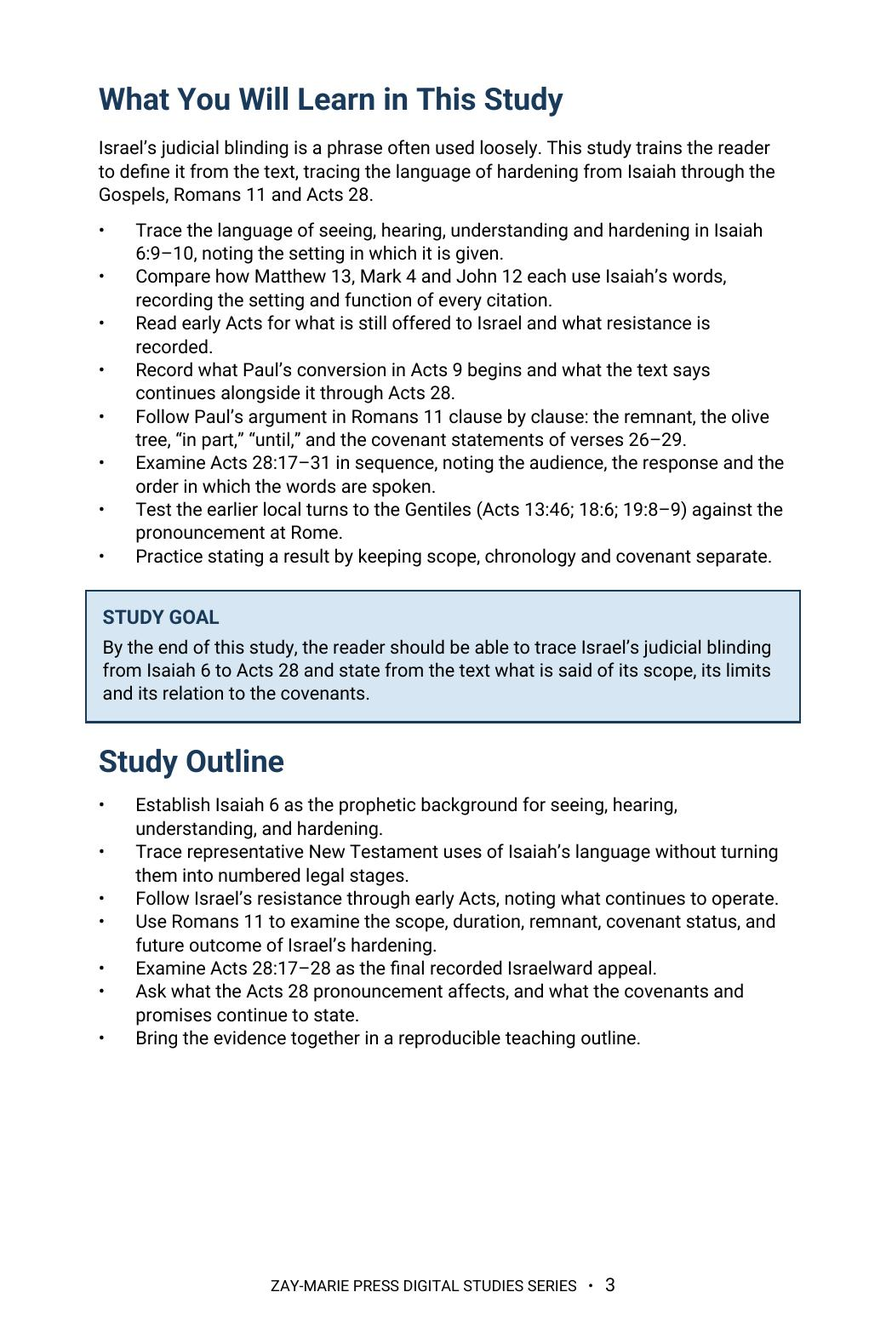
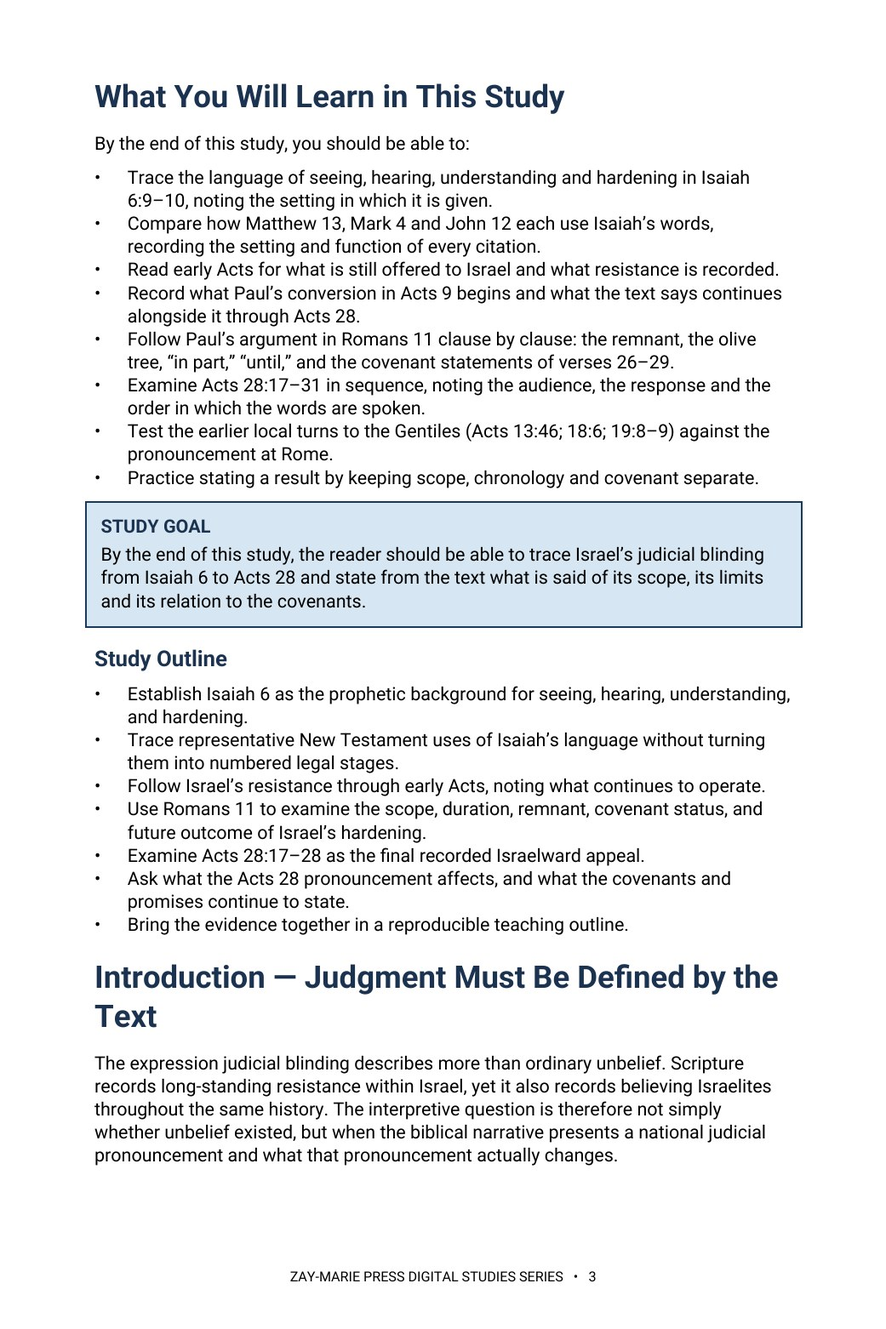
Study 21: rebuilt in Roboto 10 pt on current page (16 pages); previews 2, 3, 4 re-rendered; site.js 21:16; trackers v1.106/v1.200
Claude-Session: https://claude.ai/code/session_01HC7bs9KYP2scp4hCL6DkTp

Changed region(s): [[0.0922, 0.0615, 0.9222, 0.8912], [0.3074, 0.9526, 0.6455, 0.9834]]

diff --git a/study-21-israels-judicial-blinding.html b/study-21-israels-judicial-blinding.html
@@ -14,7 +14,7 @@
   <body class="study-detail-page">
     <header class="site-header"><div class="wrap nav"><a class="logo" href="index.html" aria-label="Zay-Marie Press home"><img src="assets/zay-marie-press-logo-hq.png" alt="Zay-Marie Press" width="420" height="238" /></a><button class="menu-toggle" type="button" aria-expanded="false" aria-controls="primary-nav">MENU</button><nav aria-label="Primary navigation" class="primary-nav" id="primary-nav"><a href="index.html">HOME</a><a href="books.html">BOOKS</a><a href="series.html">SERIES</a><a class="active" aria-current="page" href="digital-studies.html">DIGITAL STUDIES</a><a href="biblical-hermeneutics-course.html">COURSE</a><a href="about.html">ABOUT</a><a href="resources.html">RESOURCES</a><a href="contact.html">CONTACT</a></nav></div></header>
     <main>
-      <section class="detail-hero"><div class="wrap detail-hero-grid"><div class="detail-cover"><picture><source srcset="assets/study-21-cover.webp" type="image/webp"><img src="assets/study-21-cover.jpg" alt="Israel’s Judicial Blinding - Study 21 cover" /></picture></div><div><div class="eyebrow">STUDY 21 · DIGITAL STUDY</div><h1>Israel’s Judicial Blinding</h1><p class="detail-subtitle">Hardening, Purpose, and the Hope of Restoration</p><p class="detail-kicker">A Clearer Understanding of Romans 11 and the Acts 28 Boundary</p><p class="detail-copy">Israel’s judicial blinding must be understood within the full Acts narrative. Isaiah’s hardening language appears before Acts 28, yet Israel’s active national Prophecy administration continues during the Acts Overlap while the Mystery administration also operates distinctly through Paul.</p><p class="detail-copy">This study follows the biblical evidence to Acts 28, where the final recorded Israelward appeal reaches its judicial boundary. It explains what is suspended, what remains true, and why Romans 11 preserves Israel’s future restoration.</p><div class="detail-buyline"><span class="detail-price">$5.99</span><span class="detail-format">Digital PDF · 17 Pages</span><span class="detail-button pending" aria-disabled="true">Checkout Coming Soon</span></div></div></div></section>
+      <section class="detail-hero"><div class="wrap detail-hero-grid"><div class="detail-cover"><picture><source srcset="assets/study-21-cover.webp" type="image/webp"><img src="assets/study-21-cover.jpg" alt="Israel’s Judicial Blinding - Study 21 cover" /></picture></div><div><div class="eyebrow">STUDY 21 · DIGITAL STUDY</div><h1>Israel’s Judicial Blinding</h1><p class="detail-subtitle">Hardening, Purpose, and the Hope of Restoration</p><p class="detail-kicker">A Clearer Understanding of Romans 11 and the Acts 28 Boundary</p><p class="detail-copy">Israel’s judicial blinding must be understood within the full Acts narrative. Isaiah’s hardening language appears before Acts 28, yet Israel’s active national Prophecy administration continues during the Acts Overlap while the Mystery administration also operates distinctly through Paul.</p><p class="detail-copy">This study follows the biblical evidence to Acts 28, where the final recorded Israelward appeal reaches its judicial boundary. It explains what is suspended, what remains true, and why Romans 11 preserves Israel’s future restoration.</p><div class="detail-buyline"><span class="detail-price">$5.99</span><span class="detail-format">Digital PDF · 16 Pages</span><span class="detail-button pending" aria-disabled="true">Checkout Coming Soon</span></div></div></div></section>
       <section class="detail-section"><div class="wrap"><div class="eyebrow">ABOUT THIS STUDY</div><h2>What Does Judicial Blinding Mean?</h2><p class="lead">Judicial blinding is a real national judgment, but it is neither individually exhaustive nor covenant-canceling. Believing Israelites remain, Israel’s promises remain valid, and Romans 11 looks ahead to future restoration.</p><p class="lead">This study distinguishes recurring prophetic hardening language from the climactic administrative boundary at Acts 28. It preserves the concurrent operation of Prophecy and Mystery during Acts 9–28 while identifying the judicial suspension of Israel’s active national Prophecy administration at Acts 28.</p><p class="lead">This is not a study of the believing remnant’s own continued existence within Israel, which Study 9 follows in its own right, nor of Romans 11’s olive-tree image of branches broken off and grafted in, which Study 13 reads on its own terms. Its task is narrower: to fix the exact extent of Israel’s corporate hardening — what it covers and what it leaves untouched — and to ask whether a judicial suspension of Israel’s national administration can ever be read as canceling a covenant promise rather than merely postponing its exercise.</p><div class="study-distinction"><h3>How These Studies Relate</h3><p>Study 21 traces Israel’s corporate judicial blinding in Romans 11 and Acts 28.</p><p><a href="study-09-the-remnant.html">Study 9 — The Remnant</a> Follow the believing remnant through the same national history; its existence explains why corporate hardening does not erase every Israelite’s faith.</p><p><a href="study-13-the-olive-tree-and-the-body-of-christ.html">Study 13 — The Olive Tree and the Body of Christ</a> Read Paul’s natural branches, wild branch, and future reception in Romans 11; the olive-tree illustration makes the consequences and limits of hardening more precise.</p><p><a href="study-63-isaiah-7-13-16.html">Study 63 — Isaiah 7:13–16</a> Read the sign given to the house of David in the chapter after Isaiah 6; Study 21 traces the hardening announced just before it.</p><p class="connection-guide-link"><a href="study-connections.html#study-21">Explore the full connection guide for Study 21 →</a></p></div><div class="cross-strand-note"><p class="cross-strand-label">FROM THE PARABLES STRAND</p><p>Three parables narrate, in story form, the rejection this study explains doctrinally.</p><p><a href="parable-07-the-wicked-tenants.html">The Wicked Tenants</a> · <a href="parable-08-the-wedding-banquet.html">The Wedding Banquet</a> · <a href="parable-09-the-great-banquet.html">The Great Banquet</a></p></div></div></section>
       <section class="detail-section soft"><div class="wrap"><div class="eyebrow">WHAT YOU’LL STUDY</div><h2>Follow the Biblical Evidence to Acts 28</h2><div class="study-points">
         <div class="study-point"><h3>Isaiah 6 and Judicial Hardening</h3><p>Begin with the prophetic vocabulary of seeing, hearing, resistance, and covenant responsibility.</p></div>
@@ -38,10 +38,10 @@
       <section class="detail-section soft"><div class="wrap"><div class="eyebrow">A LOOK INSIDE</div><h2>Preview the Study Before You Purchase</h2><p class="preview-instruction">Click any page to enlarge it for reading.</p><div class="preview-grid">
         <div class="preview-card"><a class="preview-image-link" data-preview-lightbox href="assets/study-21-page-2.jpg"><img src="assets/study-21-page-2.jpg" alt="Study 21 interior preview — page 2, table of contents" /></a><div class="page-no">Page 2</div><h3>Table of Contents</h3><p>See the full structure of the study, from the introduction through the final synthesis.</p></div>
         <div class="preview-card"><a class="preview-image-link" data-preview-lightbox href="assets/study-21-page-3.jpg"><img src="assets/study-21-page-3.jpg" alt="Study 21 interior preview — page 3, What You Will Learn in This Study" /></a><div class="page-no">Page 3</div><h3>What You Will Learn in This Study</h3><p>Begin with the questions and the passages the study traces, from Isaiah to Acts 28.</p></div>
-        <div class="preview-card"><a class="preview-image-link" data-preview-lightbox href="assets/study-21-page-4.jpg"><img src="assets/study-21-page-4.jpg" alt="Study 21 interior preview — page 4, Introduction, Judgment Must Be Defined by the Text" /></a><div class="page-no">Page 4</div><h3>Introduction: Judgment Must Be Defined by the Text</h3><p>Start with the interpretive question the study asks before any passage is examined.</p></div>
+        <div class="preview-card"><a class="preview-image-link" data-preview-lightbox href="assets/study-21-page-4.jpg"><img src="assets/study-21-page-4.jpg" alt="Study 21 interior preview — page 4, Isaiah 6 and the language of hardening" /></a><div class="page-no">Page 4</div><h3>Isaiah 6 and the Language of Hardening</h3><p>Read Isaiah’s commission in its own setting before any later citation of it is examined.</p></div>
       </div></div></section>
       <section class="detail-section"><div class="wrap"><div class="eyebrow">WHAT’S INCLUDED</div><h2>A Focused Study Built for<br />Understanding and Teaching</h2><div class="includes-grid">
-        <div class="include-item"><h3>17-Page Biblical Study</h3><p>A focused study of Israel’s judicial blinding from Isaiah through Acts 28 and Romans 11.</p></div>
+        <div class="include-item"><h3>16-Page Biblical Study</h3><p>A focused study of Israel’s judicial blinding from Isaiah through Acts 28 and Romans 11.</p></div>
         <div class="include-item"><h3>Fifteen Teaching Sections</h3><p>Follow the argument from prophetic hardening language to the Acts 28 judicial boundary.</p></div>
         <div class="include-item"><h3>Romans 11 Analysis</h3><p>Trace the scope, remnant, duration, covenant status, and future outcome of Israel’s hardening.</p></div>
         <div class="include-item"><h3>Acts 28 Boundary</h3><p>Examine the final recorded Israelward appeal and Paul’s Isaiah pronouncement at Rome.</p></div>
@@ -50,7 +50,7 @@
         <div class="include-item"><h3>Scripture-Tracing Exercise</h3><p>Trace Isaiah, the Gospels, Acts, and Romans 11 in their own narrative settings.</p></div>
         <div class="include-item"><h3>Teaching and Discussion Tools</h3><p>Use review questions, a teaching outline, further study, and final synthesis for personal or group use.</p></div>
       </div></div></section>
-      <section class="detail-section cream"><div class="wrap"><div class="final-buy"><div><div class="eyebrow">STUDY 21 · DIGITAL STUDY</div><h2>Israel’s Judicial Blinding</h2><p>17-page digital PDF · For personal use</p></div><div class="final-offer"><div class="detail-price">$5.99</div><span class="detail-button pending" aria-disabled="true">Checkout Coming Soon</span></div></div><a class="back-link" href="digital-studies.html">← Back to All Digital Studies</a></div></section>
+      <section class="detail-section cream"><div class="wrap"><div class="final-buy"><div><div class="eyebrow">STUDY 21 · DIGITAL STUDY</div><h2>Israel’s Judicial Blinding</h2><p>16-page digital PDF · For personal use</p></div><div class="final-offer"><div class="detail-price">$5.99</div><span class="detail-button pending" aria-disabled="true">Checkout Coming Soon</span></div></div><a class="back-link" href="digital-studies.html">← Back to All Digital Studies</a></div></section>
     <section class="study-method-course-bridge"><div class="wrap"><div class="study-method-course-panel"><div><div class="eyebrow">BUILD THE INTERPRETIVE METHOD</div><h2>Want More Than a Focused Study?</h2><p>Digital Studies examine particular biblical subjects and difficult passages. The 40-lesson Biblical Hermeneutics course teaches a complete, repeatable method for establishing meaning in context, determining proper assignment, and making responsible application.</p></div><a class="btn btn-primary" href="biblical-hermeneutics-course.html">BIBLICAL HERMENEUTICS COURSE</a></div></div></section></main><footer class="site-footer"><div class="wrap footer-grid"><div class="footer-about"><h3>Zay-Marie Press</h3><p class="footer-tagline"><em>Where the Bible Means What It Says.</em></p><p>Zay-Marie Press is a Christian theological publisher dedicated to producing doctrinally precise, carefully structured biblical resources that equip pastors, teachers, and serious students with clarity, depth, and Scripture-anchored truth.</p><p><a href="https://zaymariepress.com">zaymariepress.com</a><br/><a href="mailto:info@zaymariepress.com">info@zaymariepress.com</a></p></div><div class="footer-column"><h3>Explore</h3><div class="footer-links-stacked"><a href="books.html">Books</a><br/><a href="series.html">Series</a><br/><a href="biblical-hermeneutics-course.html">Course</a><br/><a href="digital-studies.html">Digital Studies</a><br/><a href="resources.html">Resources</a><br/><a href="bible-book-summaries.html">Bible Book Summaries</a><br/><a href="doctrinal-packets.html">Doctrinal Packets</a><br/><a href="historical-drift.html">Historical Drift</a><br/><a href="about.html">About</a><br/><a href="contact.html">Contact</a></div></div><div class="footer-column"><h3>Reader Support</h3><div class="footer-links-stacked"><a href="reader-support.html#faq">FAQ</a><br/><a href="reader-support.html#shipping-returns">Shipping &amp; Returns</a><br/><a href="reader-support.html#digital-downloads">Digital Downloads</a><br/><a href="reader-support.html#contact-support">Contact Support</a></div></div><div class="footer-column"><h3>Acts Overlap</h3><p><strong>Acts Overlap Theology Series</strong></p><p><em>Two Distinct Streams. One Overlap.</em></p><p><a href="series.html">Series Overview</a></p></div></div><div class="wrap footer-bottom">© 2026 Zay-Marie Press. All rights reserved.</div></footer>
     <div class="preview-lightbox" id="preview-lightbox" role="dialog" aria-modal="true" aria-label="Expanded study preview"><button class="preview-lightbox-close" type="button" aria-label="Close preview">×</button><img id="preview-lightbox-image" alt="" /></div>
     <script>

diff --git a/site.js b/site.js
@@ -62,7 +62,7 @@ const resourceModal=document.querySelector('#resource-modal'), resourceModalTitl
 if(resourceModal&&resourceModalTriggers.length){const closeResourceModal=()=>{resourceModal.hidden=true;document.body.classList.remove('resource-modal-open');lastResourceTrigger?.focus();};resourceModalTriggers.forEach(trigger=>trigger.addEventListener('click',()=>{lastResourceTrigger=trigger;if(resourceModalTitle)resourceModalTitle.textContent=trigger.dataset.title||'Resource';if(resourceModalDescription)resourceModalDescription.textContent=trigger.dataset.description||'';if(resourceModalLink){resourceModalLink.href=trigger.dataset.href||'#';resourceModalLink.textContent=trigger.dataset.linkText||'OPEN RESOURCE';}resourceModal.hidden=false;document.body.classList.add('resource-modal-open');resourceModalClose?.focus();}));resourceModalClose?.addEventListener('click',closeResourceModal);resourceModal.addEventListener('click',e=>{if(e.target===resourceModal)closeResourceModal();});document.addEventListener('keydown',e=>{if(e.key==='Escape'&&!resourceModal.hidden)closeResourceModal();});}
 
 /* Display the verified final-PDF page count at the primary purchase decision point. */
-const digitalStudyPageCounts={1:17,2:19,3:16,4:17,5:15,6:15,7:14,8:13,9:15,10:20,11:15,12:15,13:18,14:15,15:15,16:16,17:17,18:18,19:16,20:15,21:17,22:16,23:14,24:16,25:17,26:16,27:16,28:16,29:19,30:17,31:18,32:19,33:18,34:16,35:16,36:16,37:16,38:16,39:16,40:16,41:16,42:17,43:17,44:19,45:19,46:20,47:19,48:18,49:20,50:19,51:20,52:19,53:19,54:17,55:20,56:20,57:20,58:19,59:20,60:15,61:16,62:18,63:17,64:17,65:16,66:16,67:17,68:16,69:17,70:17,71:16};
+const digitalStudyPageCounts={1:17,2:19,3:16,4:17,5:15,6:15,7:14,8:13,9:15,10:20,11:15,12:15,13:18,14:15,15:15,16:16,17:17,18:18,19:16,20:15,21:16,22:16,23:14,24:16,25:17,26:16,27:16,28:16,29:19,30:17,31:18,32:19,33:18,34:16,35:16,36:16,37:16,38:16,39:16,40:16,41:16,42:17,43:17,44:19,45:19,46:20,47:19,48:18,49:20,50:19,51:20,52:19,53:19,54:17,55:20,56:20,57:20,58:19,59:20,60:15,61:16,62:18,63:17,64:17,65:16,66:16,67:17,68:16,69:17,70:17,71:16};
 const digitalStudyMatch=window.location.pathname.match(/\/study-(\d+)-/i);
 const digitalStudyFormat=document.querySelector('.detail-hero .detail-format');
 if(digitalStudyMatch&&digitalStudyFormat){const studyNumber=Number(digitalStudyMatch[1]),pageCount=digitalStudyPageCounts[studyNumber];if(pageCount)digitalStudyFormat.textContent=`Digital PDF · ${pageCount} Pages`;}

diff --git a/CLAUDE.md b/CLAUDE.md
@@ -23,7 +23,7 @@ These are kept in the repo at `controlling-documents/` and are the current versi
 - As of v1.50 (publisher directive, 2026-10-03), the **What You Will Learn in This Study** section is always bulleted, never set as running paragraphs, written into this file in the same pass (Master Standard Section 3 item 4, Section 6 structure line, Section 22): a list of bullet points, each describing one process, textual marker or interpretive discipline the reader will practice (Section 17 still governs what they may say); at most one short lead-in line may stand above the bullets (for example, “By the end of this study, you should be able to:”); the Study Goal callout and the Study Outline keep their own forms. It governs every new study and every study rebuilt or retrofitted from now on; earlier studies take it when reopened or when the publisher directs. In every study check (Step 1), report whether the section is bulleted. First applied to Study 43.
 **`controlling-documents/Digital_Studies_Relationship_Map_v1.39.md`** — records each study's distinct subject, its related studies, the eight priced six-study collections, the Paul's Missionary Journeys cross-reference map, and the five primary catalog categories (currently version 1.39, covers Studies 1–71; update it as new studies publish, bump the version number, rename the file to match, and log the change in its own version-history table — mirroring the Master Standard's `_vX.Y` filename convention). Check a proposed topic against it before recommending or writing a new study. (2026-09-28: the file was missing from this repo despite this note referencing it; replaced from the publisher's copy and bumped v1.15→v1.25 in the same pass. If this note ever again points to a version not present under `controlling-documents/`, ask the publisher for a copy rather than proceeding without the check.)
 - **`controlling-documents/Digital_Studies_Category_Standard_v1.1.md`** — FINAL and binding (publisher, 2026-10-01): the rules for the five primary catalog categories (Foundations, Israel & Prophecy, Body of Christ, Passages, Doctrinal Themes), the ordered decision procedure for new studies, the precedents, all 71 fixed assignments, and the cover-label form for each category. Read it before placing any card or cover label. Do not ask the publisher where a study belongs; apply the procedure and state the result. Only the publisher changes a ruling; then bump this Standard's version and filename, re-letter the cover, and update the Relationship Map.
-- **`controlling-documents/Doctrinal_Upgrade_Retrofit_Plan_v1.105.md`** — working tracker for retrofitting Studies 1–59 to the 2026-10-02 doctrinal upgrade (Framework/PAM v1.1, Master Standard v1.40, Rules 7–17): withdrawn-wording search keys, impact tiers, waves and the per-study method. Read it before continuing the retrofit in any session; update status, bump the version and rename the file as work proceeds.
+- **`controlling-documents/Doctrinal_Upgrade_Retrofit_Plan_v1.106.md`** — working tracker for retrofitting Studies 1–59 to the 2026-10-02 doctrinal upgrade (Framework/PAM v1.1, Master Standard v1.40, Rules 7–17): withdrawn-wording search keys, impact tiers, waves and the per-study method. Read it before continuing the retrofit in any session; update status, bump the version and rename the file as work proceeds.
 - **`controlling-documents/Doctrinal_Packet_Standard_v0.3.md`** — Doctrinal Packet Standard (DRAFT; §7 approved). Governs the separate Doctrinal Packets product strand (5-page interpretive PDFs per Bible book — a print-friendly cover as page 1 plus 4 content pages, $2.99, KJV, pilot: Genesis, live at `packet-genesis.html`, hub `doctrinal-packets.html`; site pages say "5 Pages", cover styles live in `packets.css`, Old Testament blue and New Testament soft pale green, hub listed in Bible order). **Preview rule (publisher directive, 2026-09-29, packets only):** previews show about one page's worth in two cropped views (top of page 1 through the anchor texts; the chart section) — never the exegesis, architecture, Mystery contrast, logic chain, outline, or closing. Master Standard §16/§17 still govern Digital Studies. Bump the version and rename the file as the Standard is finalized.
 - **`controlling-documents/Preview_Page_Spoiler_Retrofit_Audit_v1.4.md`** — working tracker for the Studies 1–60 preview-page conclusion-spoiler retrofit (see the section below). Read it before continuing that audit in any session; update its status fields and changelog, bump the version, and rename the file to match as the audit proceeds — same `_vX.Y` convention as the other controlling documents. As of v1.1, the website-side half was DONE: all 60 studies' "What You'll Study" text was judged against the rule (methodology documented in the file) and 22 points across 11 studies were rewritten and pushed; an unrelated Study 22 content bug (Study 21's content had leaked into it) was also found and fixed. As of v1.2, the publisher supplied Studies 1–60's interior production PDFs and the interior-PDF half was also surveyed (read-only): 10 studies (37, 41, 45, 47, 48, 49, 51, 52, 53, 54) were found to have at least one interior "What You Will Learn" violation, 50 studies were confirmed compliant, and the orphaned `assets/study-45-sanctification-under-grace.docx` (removed from the repo per the publisher in v1.0) was confirmed word-for-word identical to Study 45's actual production interior PDF content. As of v1.3, the publisher supplied editable DOCX sources for all 10 violating studies; all 15 violating points were rewritten and approved, delivered as corrected final PDFs, and — along the way — a second defect was found and fixed (Studies 47 and 48's source DOCX still had an unintegrated cover placeholder despite both being long-published live with real covers; fixed by inserting the existing approved cover art). The website's "What You Will Learn" preview image (`study-NN-page-3.jpg`) was regenerated from the corrected content for all 10 studies and pushed to `main` (commit `cea1859`), verified against a fresh clone. **The website side of this audit is now fully compliant for all 60 studies.** Outstanding: the publisher's purchasable interior PDF files themselves have corrected versions delivered, but distribution to existing purchasers was decided by the publisher on 2026-09-29: silent swap of the files behind the existing downloads, no reissue notice (recorded in the v1.4 changelog entry; the product files are not in this repo).
 

diff --git a/controlling-documents/Doctrinal_Upgrade_Retrofit_Plan_v1.106.md b/controlling-documents/Doctrinal_Upgrade_Retrofit_Plan_v1.106.md
@@ -198,3 +198,4 @@ Working tracker for correcting published studies to the Framework/PAM v1.1, Mast
 - v1.103 (2026-10-04): Study 17 rebuilt in Roboto at 10 pt on the current page, 17 pages (was 18 on the old 432×648 page). WYWL opening paragraph removed, lead-in added, eight bullets reworded to process lines; 'framework' wording removed (2); Galatians 3 sentence added to section 7; overlap, Rule 17 and synagogue short-form sentences added to section 9; Acts 28 national suspension with no chronology (callout, outline, further study); Teaching Outline numbered; seven content tables kept. Previews 2, 3 and 5 re-rendered at 1041×1562 (page 5 still Genesis 12:1–3 phrase by phrase); site.js 17:17; study page 17 pages.
 - v1.104 (2026-10-04): Study 19 rebuilt in Roboto at 10 pt on the current page, 16 pages (unchanged count; old 432×648 page retired). WYWL opening paragraph removed and lead-in added (eight bullets already process lines, kept); standing Cornelius sentence completed in section 2; overlap and Rule 17 sentences added to section 8; Teaching Outline numbered; six content tables kept; no internal terms found. Previews 2, 3 and 4 re-rendered at 1041×1562; site.js 19:16 unchanged; study page 16 pages.
 - v1.105 (2026-10-04): Study 20 rebuilt in Roboto at 10 pt on the current page, 15 pages (was 16 on the old 432×648 page). WYWL opening paragraph removed and lead-in added (eight bullets already process lines, kept); 'framework' wording removed (4); Rule 19 conforming sentence in section 6 ('The ground of forgiveness is God’s grace, not the rite, and what Peter’s hearers are to believe is what he has just declared: that God has made this Jesus both Lord and Christ (Acts 2:36).') replacing 'The saving work is God’s work in Christ'; Acts 28 national suspension with no chronology; overlap, Rule 17 and Rule 11 sentences added to section 10; Teaching Outline numbered; seven content tables kept; Cornelius sentence not added (Acts 10:44–48 appears only as a tracing passage). Previews 2, 3 and 4 re-rendered at 1041×1562; site.js 20:15; study page 15 pages.
+- v1.106 (2026-10-04): Study 21 rebuilt in Roboto at 10 pt on the current page, 16 pages (was 17 on the old 432×648 page). WYWL opening paragraph removed and lead-in added (eight bullets already process lines, kept); 'The Framework classifies the remnant…' and the withdrawn 'gathered into the Body' clarifier replaced (remnant is Israel’s believing remnant, not the Body, never becomes the Body, stays outside the Body, Mystery Program and heavenly calling); 'framework' wording removed (5); full Romans 11 depth added (four boundaries, triad, 'Identity is fixed by divine program, not by metaphor', concurrency close, Gentile-salvation line); Rule 18 full sentence added after the Acts 28 sequence paragraph; overlap and Rule 17 sentences added to section 5; Acts 28 callout 'not a cancellation, transfer or absorption' and no-further-chronology sentence; Teaching Outline numbered; five content tables kept. Previews 2, 3 and 4 re-rendered at 1041×1562 (page 4 relabelled Isaiah 6 and the Language of Hardening); site.js 21:16; study page 16 pages.

diff --git a/controlling-documents/Digital_Studies_PAM_Audit_v1.200.md b/controlling-documents/Digital_Studies_PAM_Audit_v1.200.md
@@ -429,3 +429,4 @@ Study 15 PDF not yet supplied. Typography: none of Studies 2, 3, 6, 8 is in EB G
 - v1.197 (2026-10-04): Study 17 rebuilt in Roboto at 10 pt on the current page, 17 pages; WYWL bullets reworded to process lines; Galatians 3, overlap, Rule 17 and synagogue sentences added; Acts 28 national suspension, no chronology; Teaching Outline numbered (see Retrofit Plan v1.103).
 - v1.198 (2026-10-04): Study 19 rebuilt in Roboto at 10 pt on the current page, 16 pages; WYWL lead-in added; Cornelius, overlap and Rule 17 sentences added; Teaching Outline numbered (see Retrofit Plan v1.104).
 - v1.199 (2026-10-04): Study 20 rebuilt in Roboto at 10 pt on the current page, 15 pages; WYWL lead-in added; Rule 19 forgiveness sentence conformed; Acts 28 national suspension, no chronology; overlap, Rule 17 and Rule 11 sentences added; Teaching Outline numbered (see Retrofit Plan v1.105).
+- v1.200 (2026-10-04): Study 21 rebuilt in Roboto at 10 pt on the current page, 16 pages; remnant paragraph conformed (withdrawn wording removed); full Romans 11 depth and Rule 18 full sentence added; overlap and Rule 17 sentences added; Acts 28 not a cancellation, transfer or absorption; Teaching Outline numbered (see Retrofit Plan v1.106).
